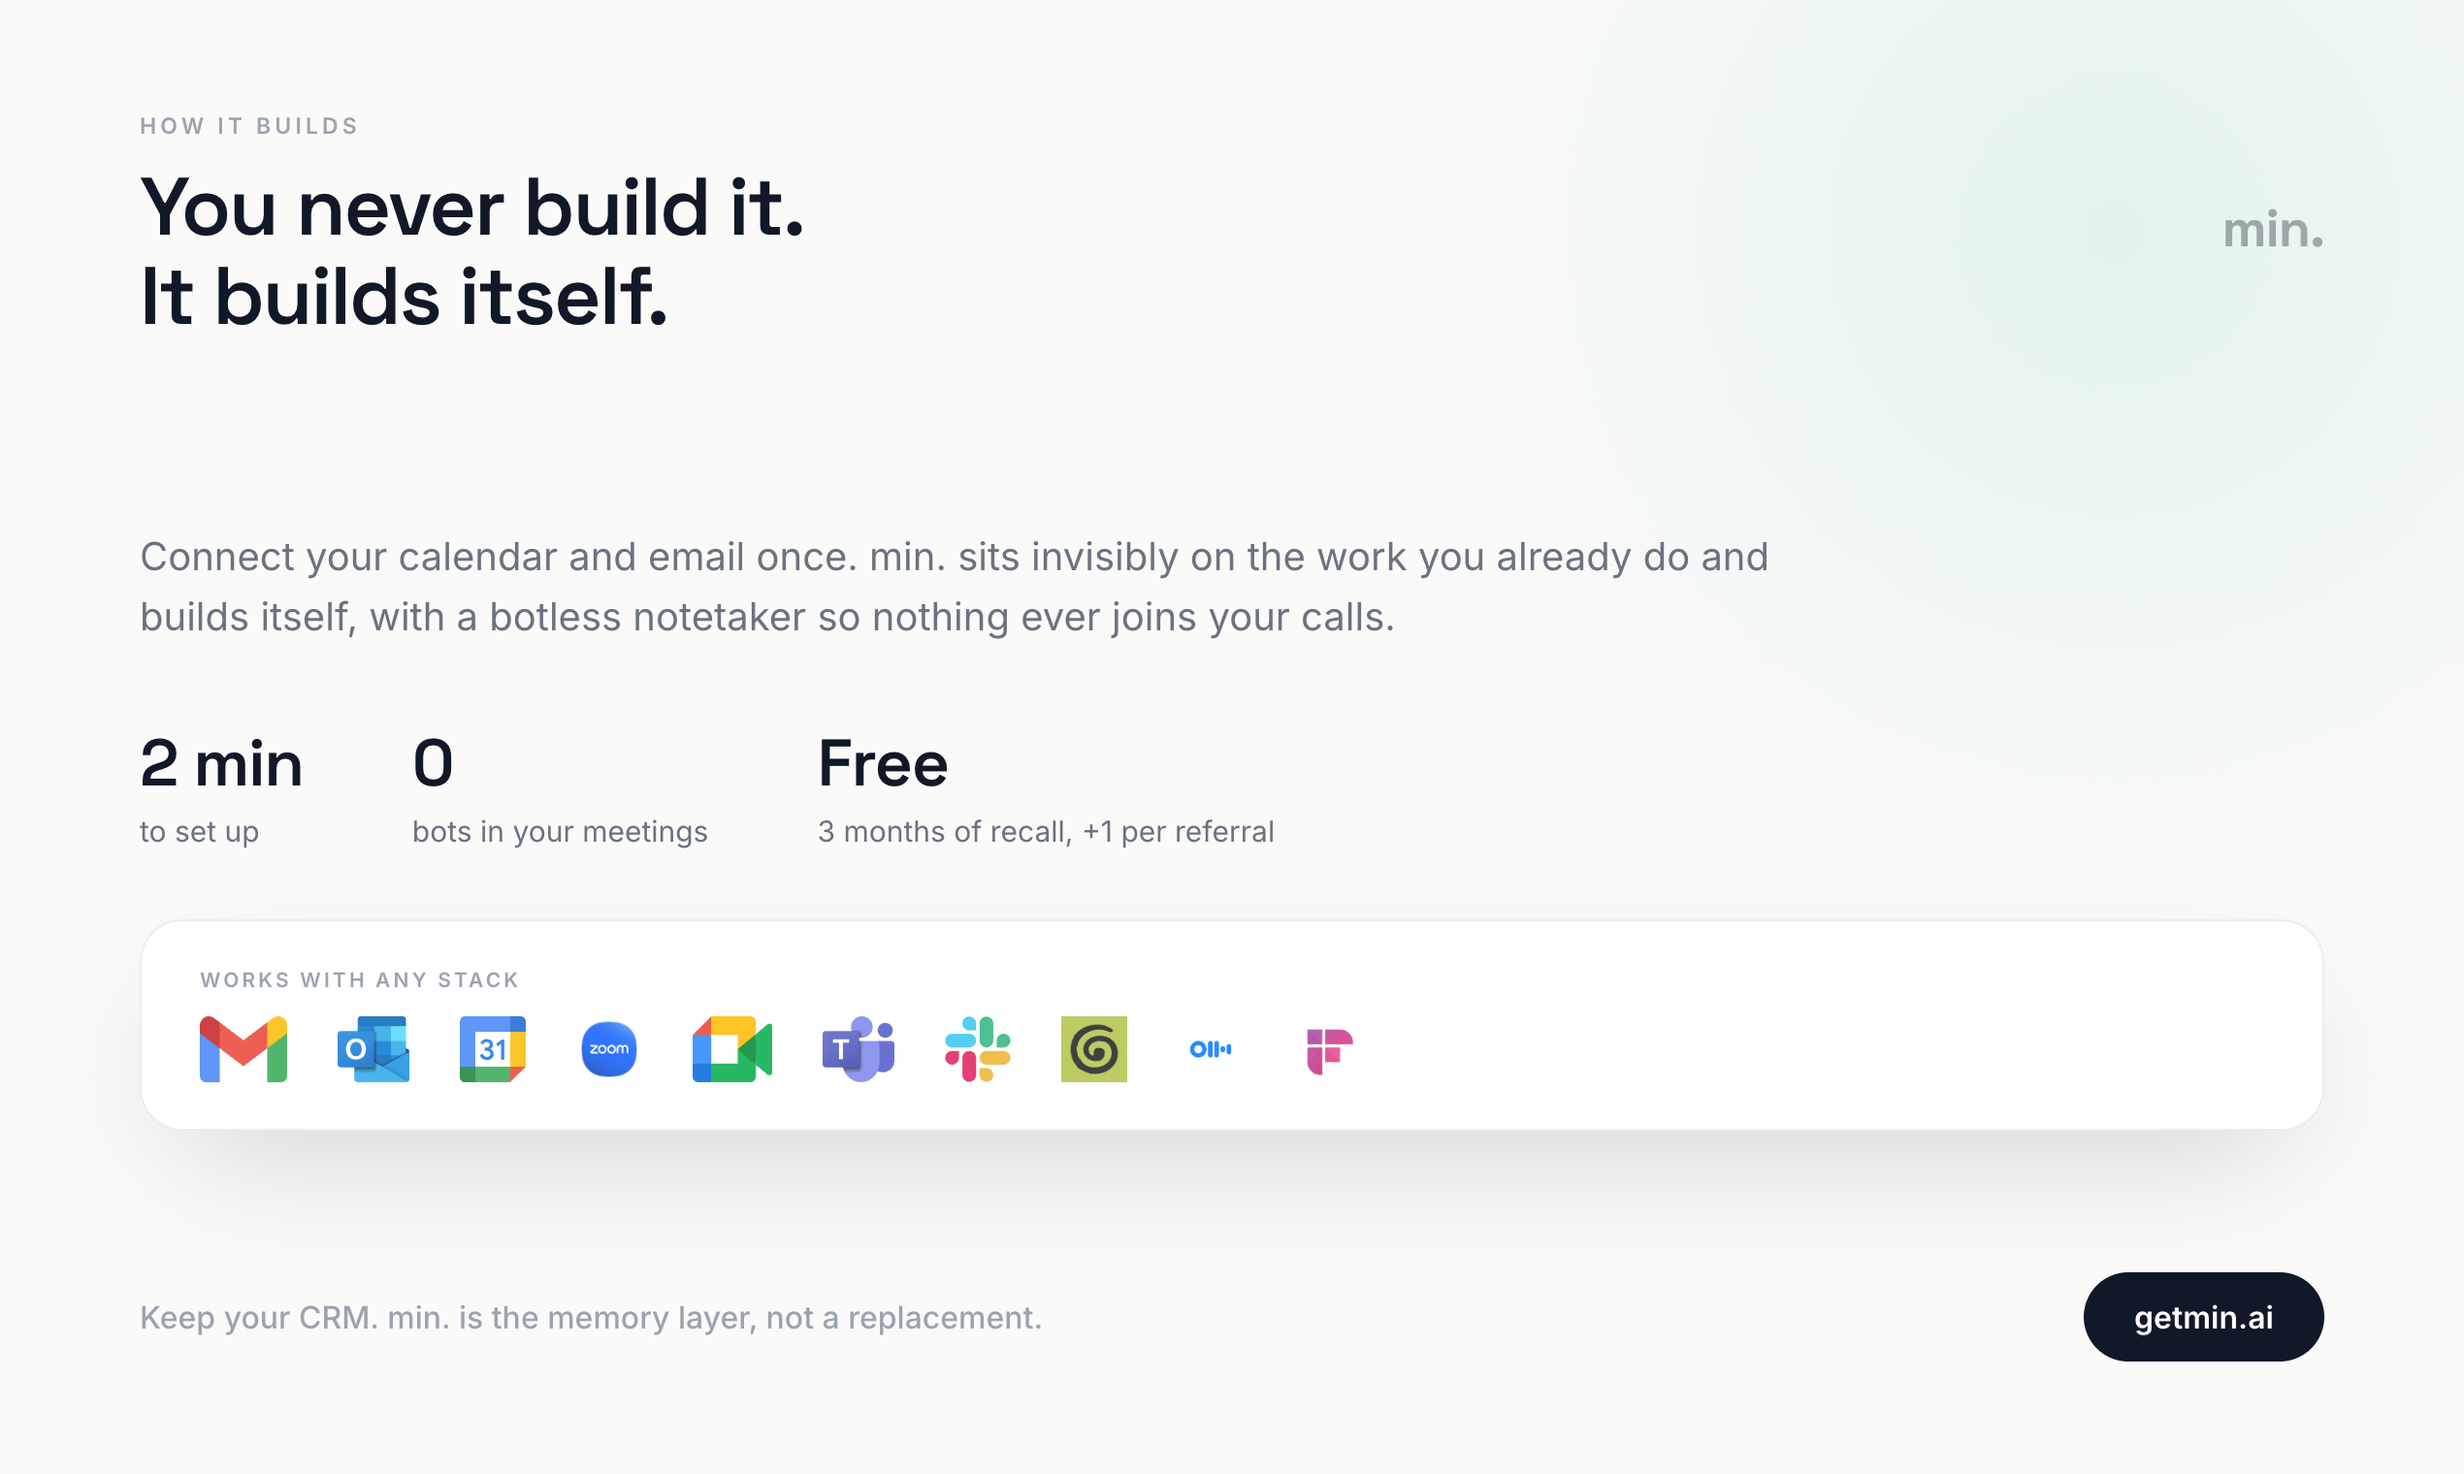
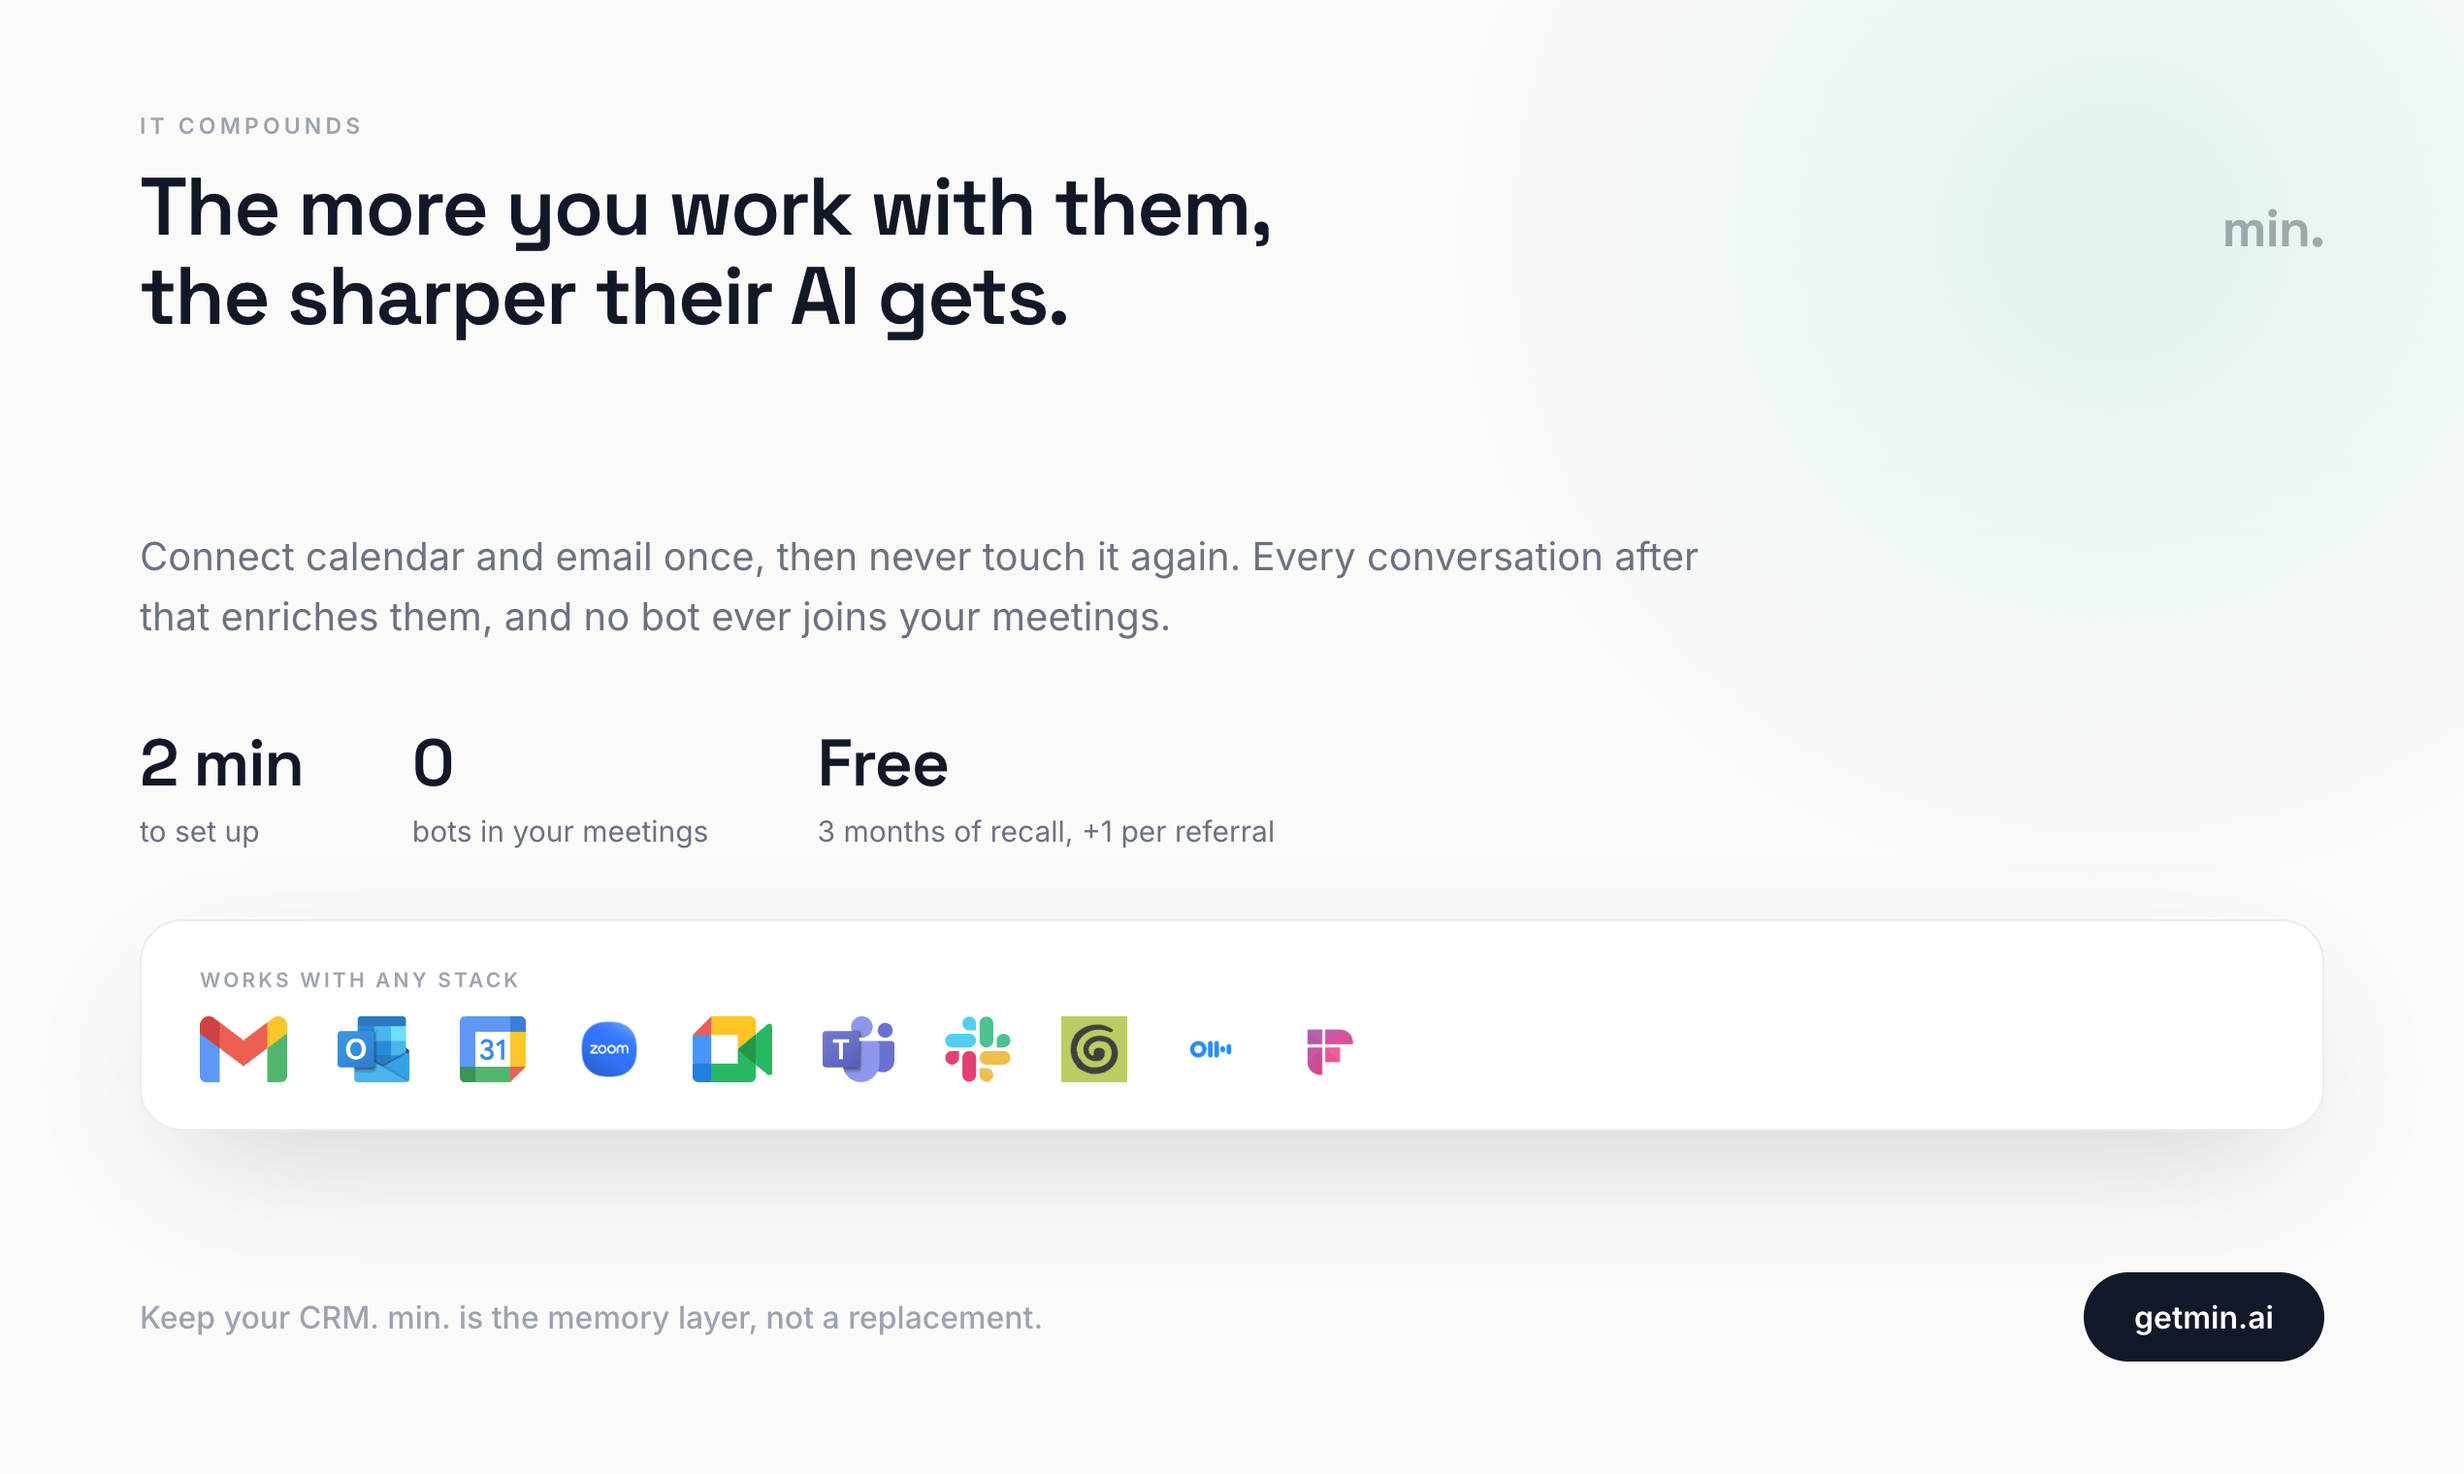
Slide four argues compounding, not effortlessness
"You never build it, it builds itself" only kills an objection. It says the
setup is cheap, which is table stakes, and it leaves the reader with a static
picture: a thing that exists rather than a thing that grows.

Compounding is the actual argument. "The more you work with them, the sharper
their AI gets" is the reason a competitor cloning the product in a weekend still
loses, and it is what the blog post published this week closes on. The gallery
and the writing now make the same claim.

The sub-line had to absorb the work the old headline was doing, or moving to
compounding would have quietly dropped the no-data-entry and no-bots proof:
connect once, never touch it again, no bot ever joins.

Changed region(s): [[0.0311, 0.1237, 0.5287, 0.2474], [0.0622, 0.3711, 0.7154, 0.4329], [0.0622, 0.0618, 0.1555, 0.0928]]

diff --git a/scripts/ph-slides.html b/scripts/ph-slides.html
@@ -315,16 +315,16 @@
 <section class="slide" id="s4">
   <div class="top">
     <div>
-      <div class="eyebrow" style="margin-bottom:12px;">How it builds</div>
-      <h2>You never build it.<br/>It builds itself.</h2>
+      <div class="eyebrow" style="margin-bottom:12px;">It compounds</div>
+      <h2>The more you work with them,<br/>the sharper their AI gets.</h2>
     </div>
     <div class="wordmark" style="opacity:0.35;">min.</div>
   </div>
 
   <div class="body">
 <p class="sub" style="margin-top:22px; max-width:840px;">
-    Connect your calendar and email once. min. sits invisibly on the work you already
-    do and builds itself, with a botless notetaker so nothing ever joins your calls.
+    Connect calendar and email once, then never touch it again. Every conversation
+    after that enriches them, and no bot ever joins your meetings.
   </p>
 
   <div style="display:flex; gap:56px; margin-top:38px;">
